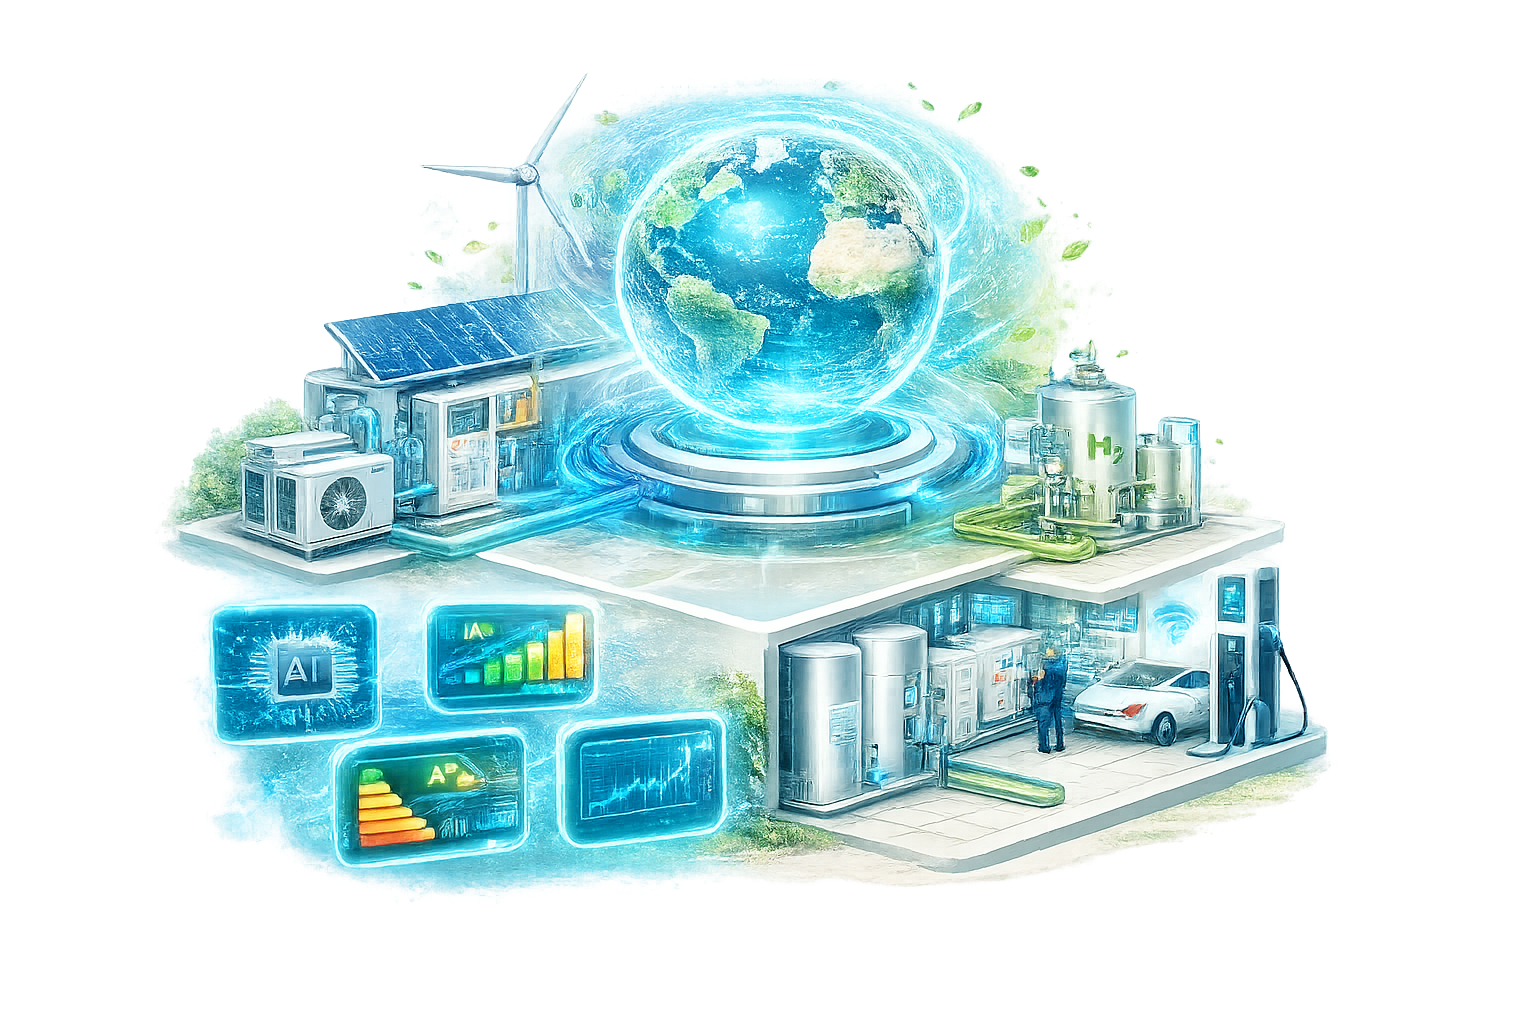
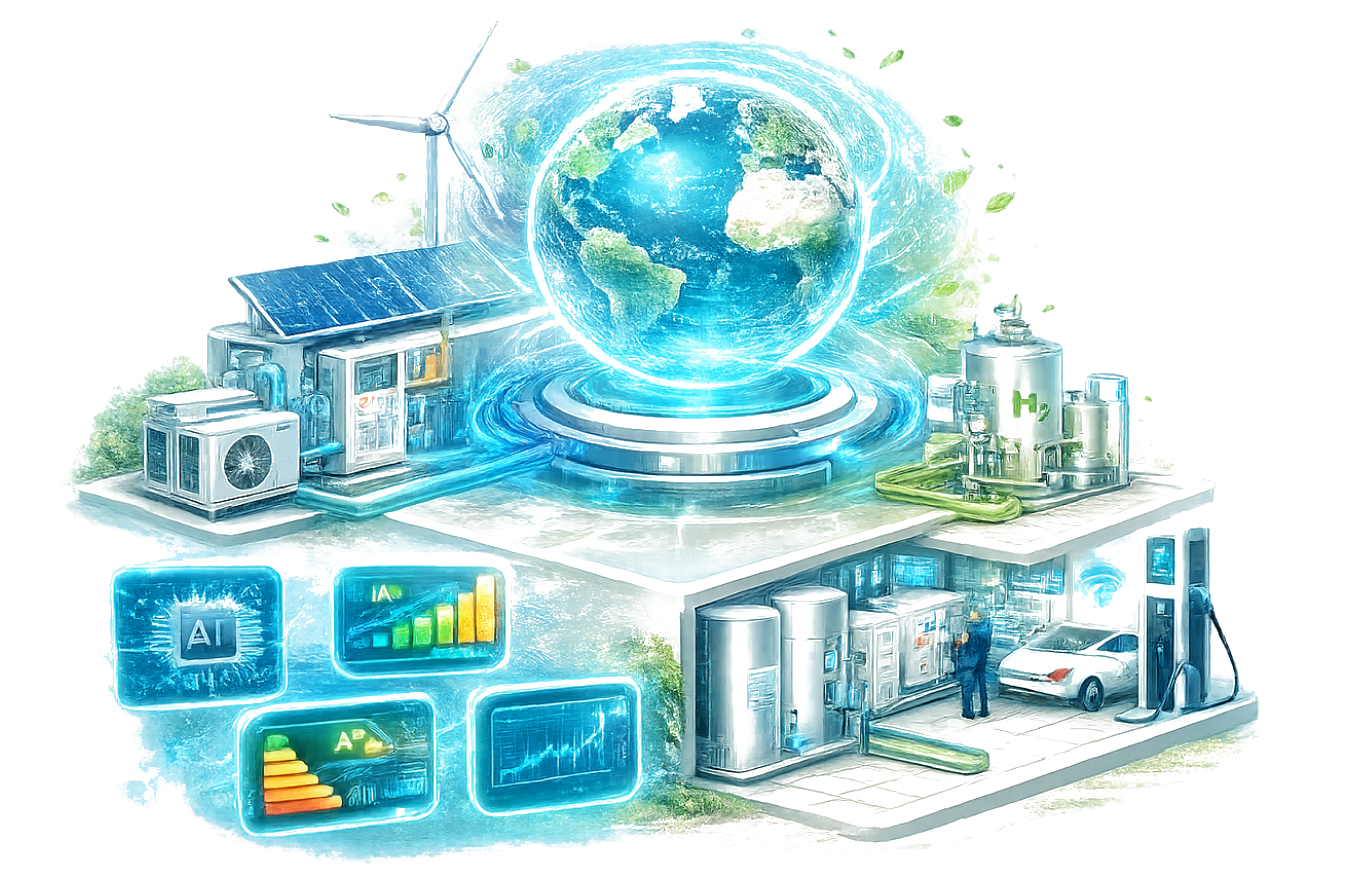
ok

diff --git a/24-technologie.css b/24-technologie.css
@@ -248,11 +248,13 @@ button {
   min-width: 0;
   height: 473px;
   position: relative;
+  overflow: hidden;
 }
 
 .hero__visual img {
   width: 100%;
   height: 100%;
+  max-width: 685px;
   object-fit: contain;
   object-position: center;
 }
